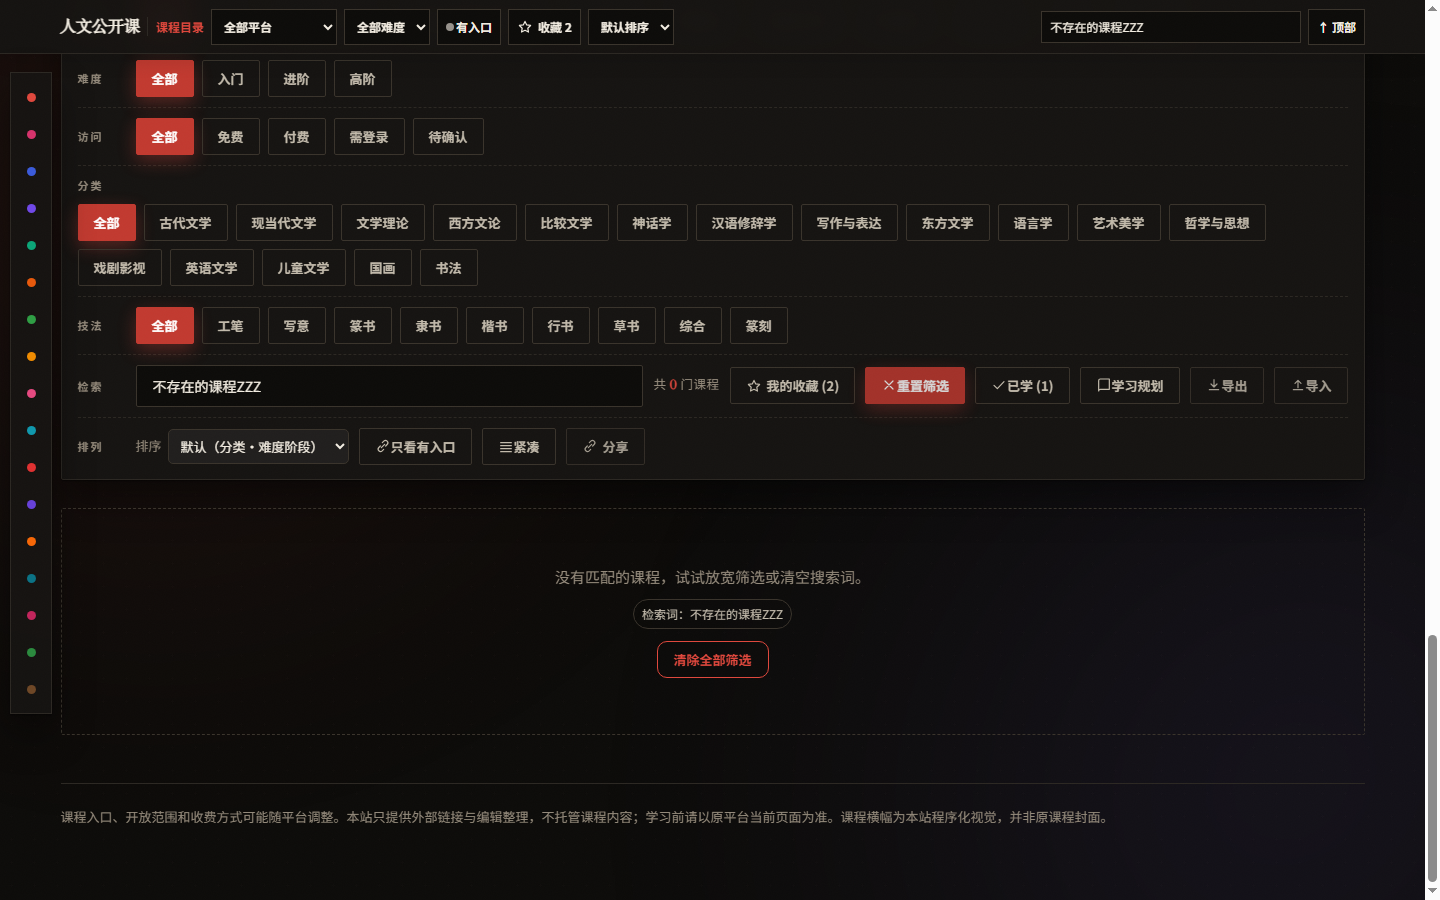
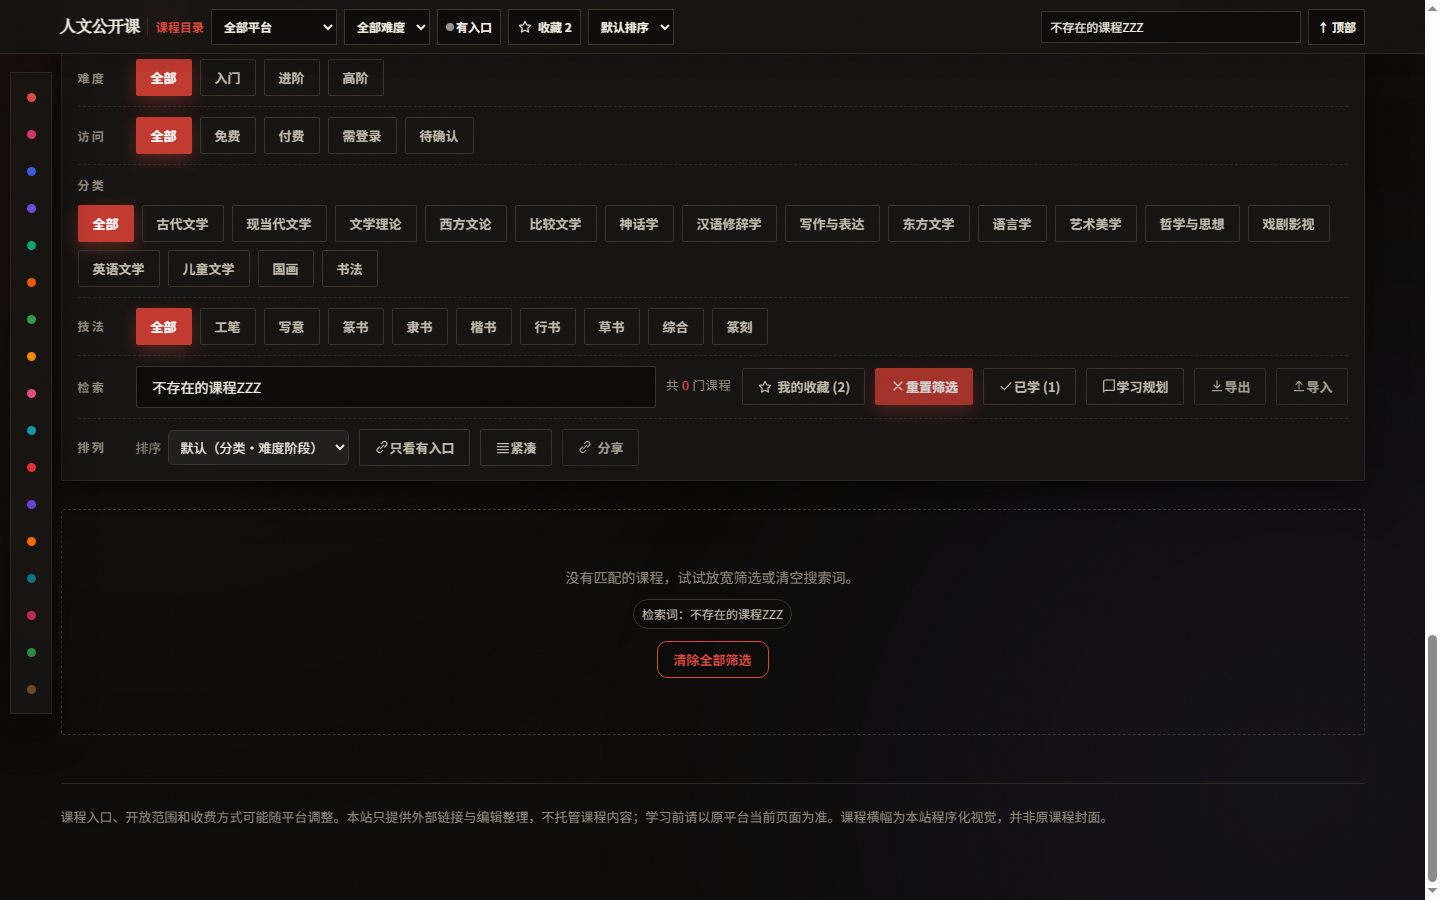
审美优化轮（huashu-design 评审体系）：对比度系统修复（--accent-strong/--accent-deep、印章/栏目字 color-mix 深化 887→0 处低对比）、装饰清理（glow/模板装饰）、题签章 11px 折中（保 390 密度门禁）、圆角归一 5 种、间距归偶、正文 14px、移动触控提升、孤儿点行修复（折叠规则恢复）、CRLF→LF+.gitattributes（修复 CSP hash 静默拒绝隐患）、smoke 增强（fonts.ready+tallIds 取证）、public-smoke 动态化；huashu 六维审美评分 57.8→82.8/100

diff --git a/index.html b/index.html
@@ -182,7 +182,7 @@
     font-size:13px;color:var(--muted);letter-spacing:.02em;
     animation:heroIn .9s .3s both;
   }
-  .hero-stats b{color:var(--ink);font-family:var(--font-serif);font-size:19px;font-weight:800;margin-right:6px;}
+  .hero-stats b{color:var(--ink);font-family:var(--font-serif);font-size:18px;font-weight:800;margin-right:6px;}
 
   /* ============ 鼠标跟随光晕（全局） ============ */
   .cursor-glow{
@@ -238,14 +238,14 @@
   .toolbar .row{display:flex;flex-wrap:wrap;gap:10px;align-items:center;}
   .toolbar .row + .row{margin-top:10px;padding-top:10px;border-top:1px dashed var(--line);}
   .toolbar .label{
-    font-size:11px;letter-spacing:.18em;text-transform:uppercase;font-weight:700;
+    font-size:12px;letter-spacing:.18em;text-transform:uppercase;font-weight:700;
     color:var(--muted);min-width:48px;
   }
   .pill{
     border:1px solid var(--line-strong);
     background:transparent;
     color:var(--ink-soft);
-    padding:8px 15px;
+    padding:8px 14px;
     border-radius:2px;
     font-size:13px;font-weight:600;cursor:pointer;
     transition:.16s;white-space:nowrap;font-family:var(--font-sans);
@@ -266,7 +266,7 @@
   .search::placeholder{color:var(--muted);}
   .search:focus{border-color:var(--accent);box-shadow:0 0 0 3px var(--accent-soft);}
   .count{font-size:12.5px;color:var(--muted);margin-left:auto;letter-spacing:.04em;}
-  .count b{color:var(--accent);font-family:var(--font-serif);font-size:15px;}
+  .count b{color:var(--accent);font-family:var(--font-serif);font-size:14px;}
 
   /* ============ 分类区块 ============ */
   .cat{margin-bottom:64px;}
@@ -336,9 +336,9 @@
   .cover-svg > text:nth-of-type(n+3){display:none;}
   .course-banner{position:absolute;inset:0;z-index:6;padding:12px 22px 14px 27px;display:grid;grid-template-rows:auto auto minmax(30px,auto);align-content:end;gap:4px;color:#fff;background:linear-gradient(90deg,rgba(7,7,8,.94) 0%,rgba(7,7,8,.82) 54%,rgba(7,7,8,.34) 82%,rgba(7,7,8,.12) 100%);}
   .course-banner::before{content:"";position:absolute;left:0;top:0;bottom:0;width:4px;background:var(--cat-color,var(--accent));box-shadow:3px 0 16px color-mix(in srgb,var(--cat-color,var(--accent)) 35%,transparent);}
-  .banner-category{justify-self:start;font:800 11px/1 var(--font-sans);letter-spacing:.18em;color:rgba(255,255,255,.72);text-transform:uppercase;border-bottom:1px solid var(--cat-color,var(--accent));padding-bottom:4px;}
+  .banner-category{justify-self:start;font:800 12px/1 var(--font-sans);letter-spacing:.18em;color:rgba(255,255,255,.72);text-transform:uppercase;border-bottom:1px solid var(--cat-color,var(--accent));padding-bottom:4px;}
   .banner-teacher{display:flex;align-items:center;gap:8px;min-width:0;color:#fff7e8;}
-  .teacher-label{flex:none;padding:4px 6px;background:color-mix(in srgb,var(--cat-color,var(--accent)) 62%,#000);font:800 11px/1 var(--font-sans);letter-spacing:.14em;color:#fff;}
+  .teacher-label{flex:none;padding:4px 6px;background:color-mix(in srgb,var(--cat-color,var(--accent)) 62%,#000);font:800 12px/1 var(--font-sans);letter-spacing:.14em;color:#fff;}
   .banner-teacher strong{overflow:hidden;text-overflow:ellipsis;white-space:nowrap;font:800 17px/1.15 var(--font-sans);letter-spacing:.045em;}
   .teacher-link{all:unset;cursor:pointer;font:inherit;color:inherit;letter-spacing:inherit;}
   .teacher-link:hover,.teacher-link:focus-visible{text-decoration:underline;text-underline-offset:3px;}
@@ -350,7 +350,7 @@
   .card:hover .cover-svg{transform:scale(1.07);}
   .card-body{padding:12px 18px 14px;display:flex;flex-direction:column;flex:1;}
   .badges{display:flex;flex-wrap:wrap;gap:6px;margin:8px 0 8px;}
-  .badge{font-size:11px;font-weight:700;letter-spacing:.04em;padding:4px 10px;border-radius:2px;border:1px solid transparent;}
+  .badge{font-size:12px;font-weight:700;letter-spacing:.04em;padding:4px 10px;border-radius:2px;border:1px solid transparent;}
   .badge.platform{background:var(--chip);color:var(--ink-soft);border-color:var(--line-strong);}
   /* 难度徽标——更醒目（渐变底 + 图标 + 投影） */
   .badge.diff{display:inline-flex;align-items:center;gap:5px;font-size:12.5px;font-weight:800;letter-spacing:.03em;padding:4px 12px;border-radius:2px;box-shadow:0 1px 3px rgba(0,0,0,.14);}
@@ -383,7 +383,7 @@
   }
   .card.is-expanded .intro{display:block;}
   .intro .lbl{
-    display:block;font-size:11px;letter-spacing:.14em;text-transform:uppercase;
+    display:block;font-size:12px;letter-spacing:.14em;text-transform:uppercase;
     color:color-mix(in srgb,var(--cat-color,var(--accent)) 45%,var(--ink));font-weight:800;margin-bottom:4px;
   }
   /* 主编荐语：编辑部引语 */
@@ -395,7 +395,7 @@
   }
   .card.is-expanded .review{display:block;overflow:visible;}
 .review .q{
-    display:block;font-size:11px;letter-spacing:.18em;text-transform:uppercase;
+    display:block;font-size:12px;letter-spacing:.18em;text-transform:uppercase;
     color:var(--accent-deep);font-weight:800;margin-bottom:4px;
   }
   /* 卡片详情面板：系列条目 / 技法 / 载体 / 其他入口（展开后过渡显现） */
@@ -403,16 +403,16 @@
   .card.is-expanded .card-detail{max-height:420px;opacity:1;margin:0 0 10px;border-top:1px dashed var(--line-strong);padding-top:8px;}
   .detail-line{display:flex;flex-wrap:wrap;align-items:baseline;gap:6px;font-size:12.5px;color:var(--ink-soft);margin:0 0 8px;line-height:1.5;}
   .detail-line:last-child{margin-bottom:0;}
-  .detail-line .lbl{font-size:11px;letter-spacing:.18em;color:color-mix(in srgb,var(--cat-color,var(--accent)) 45%,var(--ink));font-weight:800;flex:none;}
+  .detail-line .lbl{font-size:12px;letter-spacing:.18em;color:color-mix(in srgb,var(--cat-color,var(--accent)) 45%,var(--ink));font-weight:800;flex:none;}
   .detail-line .series-strong{color:var(--ink);font-weight:700;}
   .tech-chip{border:1px solid var(--line-strong);color:var(--ink-soft);font-size:12px;padding:1px 8px;border-radius:2px;background:var(--surface-2);}
   .act.link-btn.copied{color:var(--accent);border-color:var(--accent);}
   /* 核验日期：卡片元信息的一部分，弱化处理 */
-  .meta.verify{display:flex;align-items:center;gap:4px;font-size:11px;color:var(--muted);}
+  .meta.verify{display:flex;align-items:center;gap:4px;font-size:12px;color:var(--muted);}
   .meta .vdate{color:var(--muted);}
   /* 阻断原因与自救提示（仅不可跳转课程显示） */
   .blocked-note{margin:6px 0 0;padding:6px 8px;border-left:2px solid var(--accent);background:var(--accent-soft);font-size:12px;line-height:1.45;color:var(--ink-soft);overflow-wrap:anywhere;}
-  .blocked-note .lbl{font-size:11px;letter-spacing:.18em;color:color-mix(in srgb,var(--accent) 45%,var(--ink));font-weight:800;margin-right:6px;}
+  .blocked-note .lbl{font-size:12px;letter-spacing:.18em;color:color-mix(in srgb,var(--accent) 45%,var(--ink));font-weight:800;margin-right:6px;}
   .blocked-note .bn-line{display:block;}
   .act.report-btn.copied{color:var(--accent);border-color:var(--accent);}
   .card-footer{display:flex;align-items:center;flex-wrap:wrap;gap:8px;margin-top:auto;}
@@ -429,7 +429,7 @@
 
   .empty{
     text-align:center;color:var(--muted);
-    padding:56px 0;font-size:15px;
+    padding:56px 0;font-size:14px;
     border:1px dashed var(--line-strong);border-radius:2px;
   }
 
@@ -684,7 +684,7 @@
   .plan-box{width:min(680px,96vw);}
   .plan-stats{display:grid;grid-template-columns:repeat(4,1fr);gap:10px;margin:14px 0 6px;}
   .plan-stat{border:1px solid var(--line);border-radius:10px;padding:10px 12px;background:var(--surface);}
-  .plan-stat b{display:block;font-family:var(--font-serif);font-size:22px;line-height:1.2;color:var(--accent);}
+  .plan-stat b{display:block;font-family:var(--font-serif);font-size:23px;line-height:1.2;color:var(--accent);}
   .plan-stat span{font-size:12px;color:var(--ink-soft);}
   .plan-sec{margin:16px 0 6px;font-size:13px;font-weight:700;color:var(--ink);letter-spacing:.05em;}
   .heatmap-wrap{border:1px solid var(--line);border-radius:10px;padding:12px;background:var(--surface);}
@@ -704,7 +704,7 @@
   .hm-sw.h4{background:var(--accent);}
   .plan-notes li{display:flex;align-items:center;gap:10px;padding:8px 0;border-bottom:1px dashed var(--line);list-style:none;}
   .plan-notes{margin:0;padding:0;}
-  .plan-notes b{font-size:13.5px;color:var(--ink);}
+  .plan-notes b{font-size:13px;color:var(--ink);}
   .plan-notes .pn-snip{flex:1;min-width:0;overflow:hidden;text-overflow:ellipsis;white-space:nowrap;font-size:12.5px;color:var(--ink-soft);}
   .plan-notes .pn-date{font-size:12px;color:var(--muted);white-space:nowrap;}
   .pn-open{border:1px solid var(--line-strong);border-radius:8px;background:transparent;color:var(--accent);font-size:12px;padding:4px 10px;cursor:pointer;}
@@ -861,16 +861,16 @@
   .path-item{border:1px solid var(--line);border-top:4px solid var(--accent);background:var(--surface);box-shadow:var(--shadow);}
   .path-item summary{list-style:none;cursor:pointer;padding:16px 16px;min-height:142px;display:flex;flex-direction:column;gap:9px;}
   .path-item summary::-webkit-details-marker{display:none;}
-  .path-kicker{display:flex;align-items:center;justify-content:space-between;gap:8px;color:var(--muted);font-size:11px;font-weight:700;letter-spacing:.04em;}
+  .path-kicker{display:flex;align-items:center;justify-content:space-between;gap:8px;color:var(--muted);font-size:12px;font-weight:700;letter-spacing:.04em;}
   .path-status{color:#8a5800;background:#fff0c7;border:1px solid #dfb24b;padding:2px 6px;border-radius:999px;letter-spacing:0;}
   .path-item.path-current{border-color:var(--accent);box-shadow:0 0 0 1px var(--accent),var(--shadow);}
-  .path-progress{display:flex;align-items:center;gap:8px;color:var(--muted);font:700 11px var(--font-sans);}
+  .path-progress{display:flex;align-items:center;gap:8px;color:var(--muted);font:700 12px var(--font-sans);}
   .path-progress-bar{height:4px;flex:1;background:var(--line);overflow:hidden;}
   .path-progress-bar i{display:block;height:100%;width:0;background:var(--accent);transition:width .2s ease;}
-  .path-item h3{margin:0;font-family:var(--font-serif);font-size:20px;line-height:1.18;}
+  .path-item h3{margin:0;font-family:var(--font-serif);font-size:18px;line-height:1.18;}
   .path-question{color:var(--ink-soft);font-size:13px;line-height:1.55;}
   .path-expand{margin-top:auto;color:var(--accent);font-weight:700;font-size:12px;}
-  .path-body{border-top:1px solid var(--line);padding:15px 16px 18px;}
+  .path-body{border-top:1px solid var(--line);padding:14px 16px 18px;}
   .path-body h4{margin:14px 0 8px;font-size:12px;color:var(--muted);text-transform:uppercase;letter-spacing:.08em;}
   .path-body h4:first-child{margin-top:0;}
   .path-body ul{margin:0 0 14px;padding-left:18px;color:var(--ink-soft);font-size:12.5px;line-height:1.6;}
@@ -882,13 +882,13 @@
   .path-node b{display:block;font-size:13px;margin-bottom:4px;}
   .path-node p{margin:0;color:var(--muted);font-size:12px;line-height:1.55;}
   .path-node-actions{display:flex;align-items:center;gap:8px;margin:8px 0 0 29px;}
-  .path-node-btn{border:1px solid var(--line-strong);background:transparent;color:var(--accent);padding:6px 8px;cursor:pointer;font-size:11px;}
+  .path-node-btn{border:1px solid var(--line-strong);background:transparent;color:var(--accent);padding:6px 8px;cursor:pointer;font-size:12px;}
   .path-node-btn:hover{border-color:var(--accent);background:var(--accent-soft);}
-  .path-course-ref{display:inline-block;margin:6px 6px 0 0;padding:6px 8px;background:var(--chip);border:1px solid var(--line);font-size:11px;color:var(--ink-soft);cursor:pointer;}
+  .path-course-ref{display:inline-block;margin:6px 6px 0 0;padding:6px 8px;background:var(--chip);border:1px solid var(--line);font-size:12px;color:var(--ink-soft);cursor:pointer;}
   .path-course-ref:hover{border-color:var(--accent);color:var(--accent);}
   .card.path-focus .card-inner{outline:3px solid var(--accent);outline-offset:4px;}
   @media (max-width:980px){.path-grid{grid-template-columns:1fr;}.path-item summary{min-height:0;}}
-  @media (max-width:600px){.paths-head{align-items:start;flex-direction:column;}.path-item summary{padding:15px;}}
+  @media (max-width:600px){.paths-head{align-items:start;flex-direction:column;}.path-item summary{padding:14px;}}
 
   /* ============ 编辑精选入口 ============ */
   .recs{ margin:0 0 26px; }
@@ -988,13 +988,13 @@
   .card:hover .card-inner{--ly:-4px;--tz:1.008;box-shadow:var(--shadow-hover),0 0 0 1px var(--cat-color,var(--accent));}
   .card:hover .cover-svg{transform:scale(1.025);}
   .course-banner{background:linear-gradient(90deg,rgba(8,8,9,.97) 0%,rgba(8,8,9,.90) 62%,rgba(8,8,9,.46) 86%,rgba(8,8,9,.20) 100%);}
-  .access-badge{font-size:11px;font-weight:700;padding:4px 8px;border:1px solid var(--line-strong);color:var(--ink-soft);background:var(--surface-2);}
+  .access-badge{font-size:12px;font-weight:700;padding:4px 8px;border:1px solid var(--line-strong);color:var(--ink-soft);background:var(--surface-2);}
   .access-badge.free{color:var(--green);border-color:var(--green-bd);background:var(--green-bg);}
   .access-badge.paid{color:var(--gold);border-color:var(--gold-bd);background:var(--gold-bg);}
   .access-badge.login,.access-badge.unknown,.access-badge.historic{color:var(--blue);border-color:var(--blue-bd);background:var(--blue-bg);}
-  .alt-badge{position:absolute;right:10px;top:10px;z-index:8;display:inline-flex;align-items:center;gap:4px;padding:4px 8px;font:700 11px/1 var(--font-sans);letter-spacing:.04em;color:#fff;background:rgba(7,7,8,.78);border:1px solid rgba(255,255,255,.28);}
+  .alt-badge{position:absolute;right:10px;top:10px;z-index:8;display:inline-flex;align-items:center;gap:4px;padding:4px 8px;font:700 12px/1 var(--font-sans);letter-spacing:.04em;color:#fff;background:rgba(7,7,8,.78);border:1px solid rgba(255,255,255,.28);}
   .alt-badge .ic{width:12px;height:12px;}
-  .study-badge{position:absolute;left:10px;top:10px;z-index:8;display:inline-flex;align-items:center;gap:3px;padding:4px 8px;font:700 11px/1 var(--font-sans);color:var(--green);background:var(--green-bg);border:1px solid var(--green-bd);}
+  .study-badge{position:absolute;left:10px;top:10px;z-index:8;display:inline-flex;align-items:center;gap:3px;padding:4px 8px;font:700 12px/1 var(--font-sans);color:var(--green);background:var(--green-bg);border:1px solid var(--green-bd);}
   .study-badge .ic{width:11px;height:11px;}
   /* B2 徽标入场：轻淡入 220ms，随卡片错峰节奏 */
   @keyframes badgeIn{from{opacity:0;transform:translateY(-3px);}to{opacity:1;transform:none;}}
